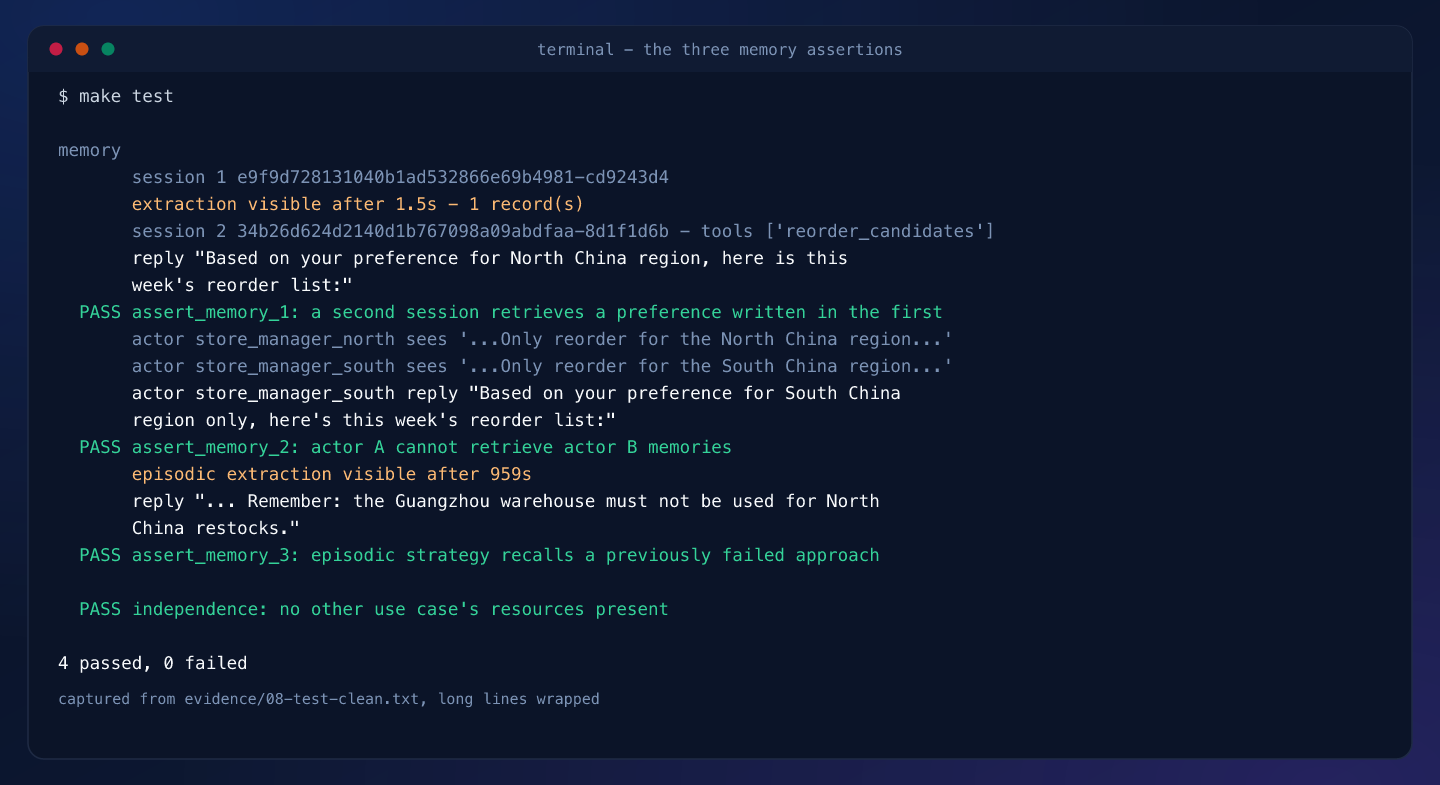
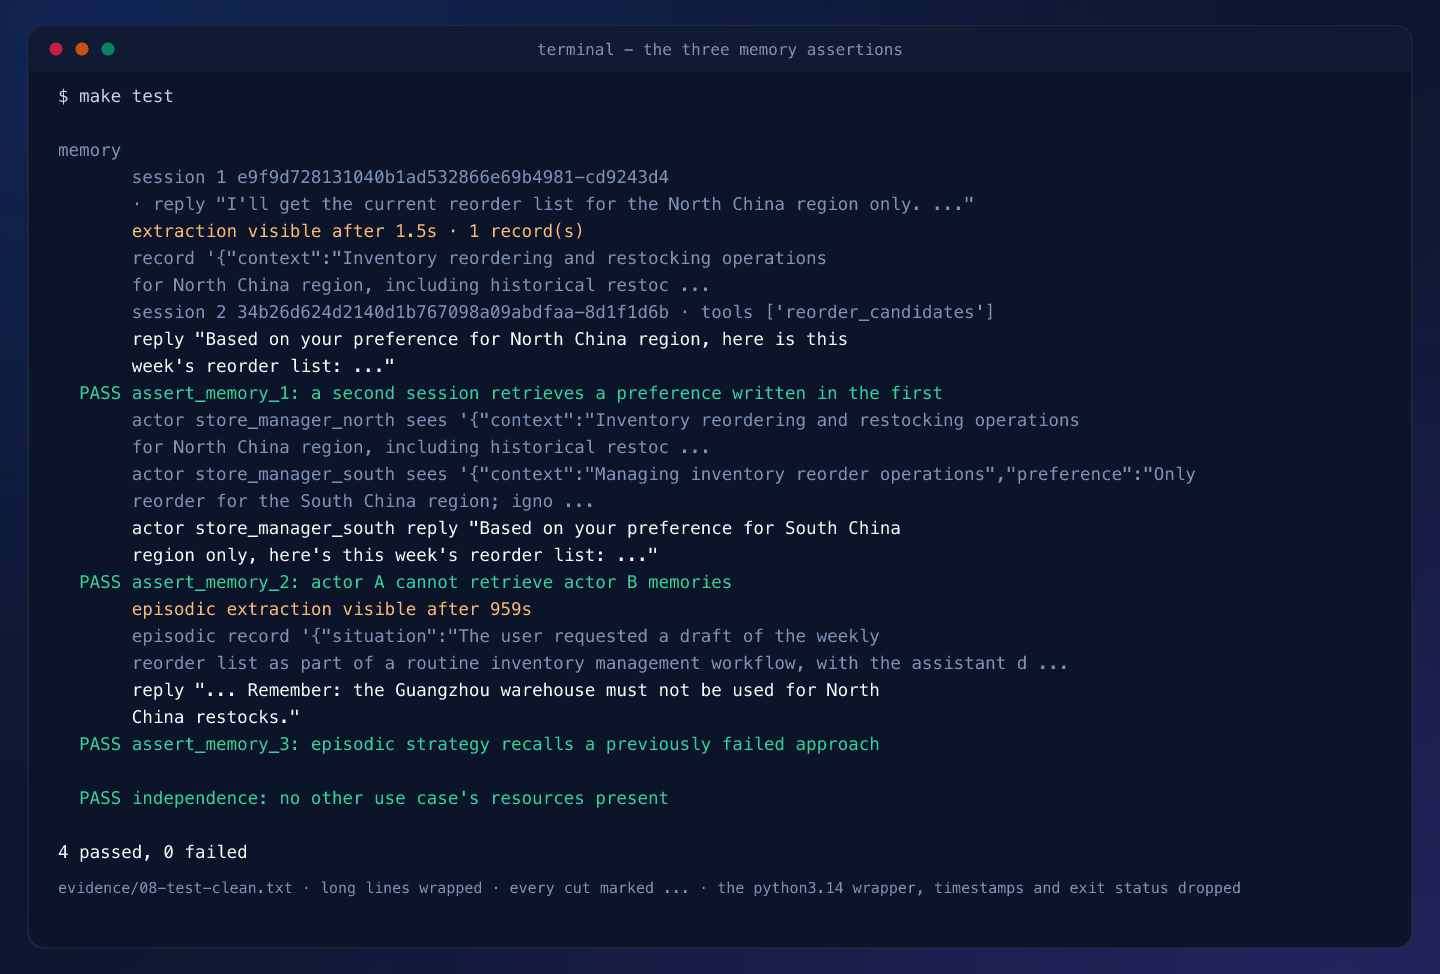
uc02: make the S3 figure honest, drop the unsupported range and disclose the teardown sources

diff --git a/articles/images/agentcore-memory-that-remembers/gen_figures.py b/articles/images/agentcore-memory-that-remembers/gen_figures.py
@@ -194,17 +194,24 @@ VERIFY: list[tuple[str, str]] = [
     ("", S),
     ("memory", D),
     ("       session 1 e9f9d728131040b1ad532866e69b4981-cd9243d4", D),
-    ("       extraction visible after 1.5s - 1 record(s)", O),
-    ("       session 2 34b26d624d2140d1b767098a09abdfaa-8d1f1d6b - tools ['reorder_candidates']", D),
+    ("       · reply \"I'll get the current reorder list for the North China region only. ...\"", D),
+    ("       extraction visible after 1.5s · 1 record(s)", O),
+    ("       record '{\"context\":\"Inventory reordering and restocking operations", D),
+    ("       for North China region, including historical restoc ...", D),
+    ("       session 2 34b26d624d2140d1b767098a09abdfaa-8d1f1d6b · tools ['reorder_candidates']", D),
     ("       reply \"Based on your preference for North China region, here is this", W),
-    ("       week's reorder list:\"", W),
+    ("       week's reorder list: ...\"", W),
     ("  PASS assert_memory_1: a second session retrieves a preference written in the first", G),
-    ("       actor store_manager_north sees '...Only reorder for the North China region...'", D),
-    ("       actor store_manager_south sees '...Only reorder for the South China region...'", D),
+    ("       actor store_manager_north sees '{\"context\":\"Inventory reordering and restocking operations", D),
+    ("       for North China region, including historical restoc ...", D),
+    ("       actor store_manager_south sees '{\"context\":\"Managing inventory reorder operations\",\"preference\":\"Only", D),
+    ("       reorder for the South China region; igno ...", D),
     ("       actor store_manager_south reply \"Based on your preference for South China", W),
-    ("       region only, here's this week's reorder list:\"", W),
+    ("       region only, here's this week's reorder list: ...\"", W),
     ("  PASS assert_memory_2: actor A cannot retrieve actor B memories", G),
     ("       episodic extraction visible after 959s", O),
+    ("       episodic record '{\"situation\":\"The user requested a draft of the weekly", D),
+    ("       reorder list as part of a routine inventory management workflow, with the assistant d ...", D),
     ("       reply \"... Remember: the Guangzhou warehouse must not be used for North", W),
     ("       China restocks.\"", W),
     ("  PASS assert_memory_3: episodic strategy recalls a previously failed approach", G),
@@ -456,7 +463,8 @@ def main() -> None:
           "evidence/09 and 10 · 19 s CLI wall clock each · every cut marked ... · "
           "bold markers stripped · session ids verbatim")
     panel("S3-verify", "terminal - the three memory assertions", VERIFY,
-          "captured from evidence/08-test-clean.txt, long lines wrapped")
+          "evidence/08-test-clean.txt · long lines wrapped · every cut marked ... · "
+          "the python3.14 wrapper, timestamps and exit status dropped")
     panel("S4-teardown", "terminal - teardown, and zero tagged resources left", TEARDOWN,
           "Total Duration from evidence/18-down-deploy.txt · the rest from "
           "evidence/12-down-raw.txt, evidence/13 and evidence/14")

diff --git a/articles/agentcore-memory-that-remembers.md b/articles/agentcore-memory-that-remembers.md
@@ -53,7 +53,7 @@ https://github.com/pinxiong/bedrock-agentcore-in-action/tree/main/usecases/02-me
 ├── Makefile                   # forwards to run.py, holds no logic
 ├── agentcore/
 │   ├── agentcore.json         # the runtime plus one memory with three strategies
-│   └── aws-targets.json       # account 123456789012, region us-east-1
+│   └── aws-targets.json       # deployment target: region us-east-1
 ├── app/aia_uc02/
 │   ├── main.py                # the agent: prompt, tool, actor resolution, entrypoint
 │   ├── memory.py              # the only file that knows short term from long term
@@ -83,7 +83,7 @@ The memory resource is declared once, and the strategies decide what long-term r
 }]
 ```
 
-Two things follow from that layout. The actor id is inside the namespace, so isolation is a property of the key space rather than a filter some code path has to remember. And the reflection namespace sits one level above the per-session one, so a prefix read of `/episodes/{actorId}/` reaches both a single episode and the lessons written across all of them.
+The actor id is inside the namespace, so isolation is a property of the key space rather than a filter some code path has to remember. The reflection namespace sits one level above the per-session one, so a prefix read of `/episodes/{actorId}/` reaches both a single episode and the lessons written across all of them.
 
 The agent itself never stores a preference. It appends the turn and asks a question:
 
@@ -96,6 +96,8 @@ def remember(self, actor, session_id, turns):
     return event.get("eventId")
 
 def recall(self, actor, query):
+    # ... condensed: the real one also drops records whose text is empty,
+    # and continues past a namespace that failed instead of falling through
     found = []
     for label, ns, by_path in (("preference", f"/users/{actor}/preferences", False),
                                ("fact", f"/users/{actor}/facts", False),
@@ -236,8 +238,8 @@ memory
        reply "Based on your preference for North China region, here is this
        week's reorder list: ..."
   PASS assert_memory_1: a second session retrieves a preference written in the first
-       actor store_manager_north sees '...Only reorder for the North China region...'
-       actor store_manager_south sees '...Only reorder for the South China region...'
+       actor store_manager_north sees '{"context":"Inventory reordering and restocking operations for North China region, including historical restoc ...
+       actor store_manager_south sees '{"context":"Managing inventory reorder operations","preference":"Only reorder for the South China region; igno ...
        actor store_manager_south reply "Based on your preference for South China
        region only, here's this week's reorder list: ..."
   PASS assert_memory_2: actor A cannot retrieve actor B memories
@@ -280,9 +282,11 @@ Memories
   aia_uc02_mem: Local only (USER_PREFERENCE, EPISODIC, SEMANTIC)
 ```
 
+The Total Duration is from the deploy log this step writes (`evidence/18-down-deploy.txt`); the rest is the console output (`evidence/12-down-raw.txt`).
+
 ![Terminal capture: remove all, the reconciling deploy, and both resources reporting Local only](/images/agentcore-memory-that-remembers/S4-teardown.png)
 
-Removal only empties the local contract; the reconciling deploy destroys the stack. One thing survives on purpose: the CDK bootstrap stack and its asset bucket. The memory resource does not survive, which is why a re-deploy starts empty and has to re-earn every assertion.
+Removal only empties the local contract; the reconciling deploy destroys the stack. One thing survives on purpose: the CDK bootstrap stack and its asset bucket. The memory resource does not survive, so a re-deploy starts empty and re-earns every assertion.
 
 ## What it produced
 
@@ -294,9 +298,9 @@ The measured loop, one actor, two sessions:
 
 The two actors wrote to `/users/store_manager_north/preferences` and `/users/store_manager_south/preferences`; a semantic query for "which region does this store manager reorder for" returned North China to one and South China to the other, and asking the model "Draft this week's reorder list." produced South China for the southern manager. There is no filter to get wrong, because the actor id is part of the key.
 
-The third assertion taught me something. Episodic extraction is slow: these episodes were written 15 minutes 11 seconds to 15 minutes 14 seconds after the events they came from. It is not a broken strategy, it is a slower queue, and a 300-second deadline can only fail against it.
+The third assertion taught me something. Episodic extraction is slow: episodes were written about fifteen minutes after the events they came from. It is not a broken strategy, it is a slower queue, and a 300-second deadline can only fail against it.
 
-A prefix read of `/episodes/store_manager_north/` returns two kinds of record: a `BASE` episode filed under the session that produced it, and a `REFLECTION` written one level up, over all of them. That is why the namespace template has a `{sessionId}` and the reflection template does not:
+A prefix read of `/episodes/store_manager_north/` returns two kinds of record: a `BASE` episode filed under the session that produced it, and a `REFLECTION` written one level up, over all of them. Hence the `{sessionId}` in one template and not the other:
 
 ```text
 BASE        /episodes/store_manager_north/195f957a...-78cd451f/
